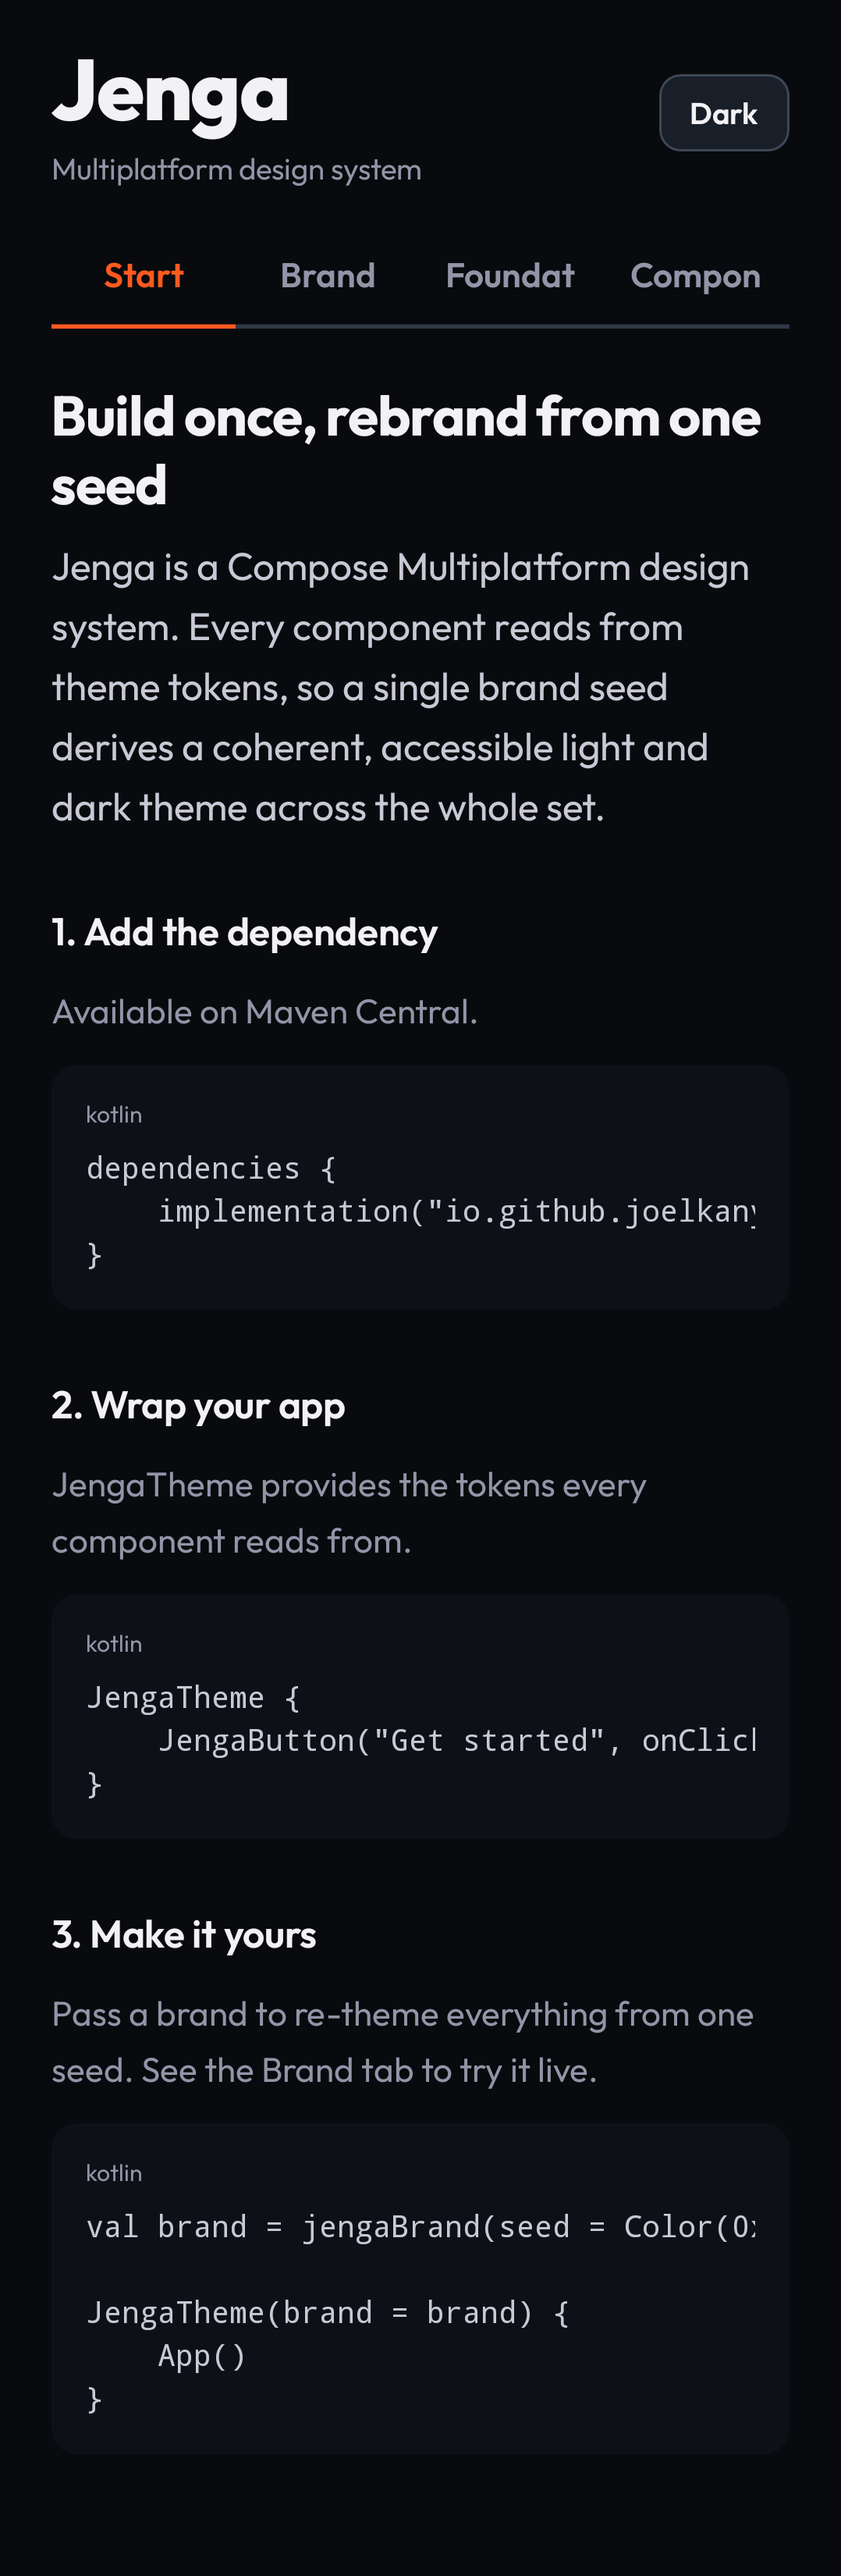
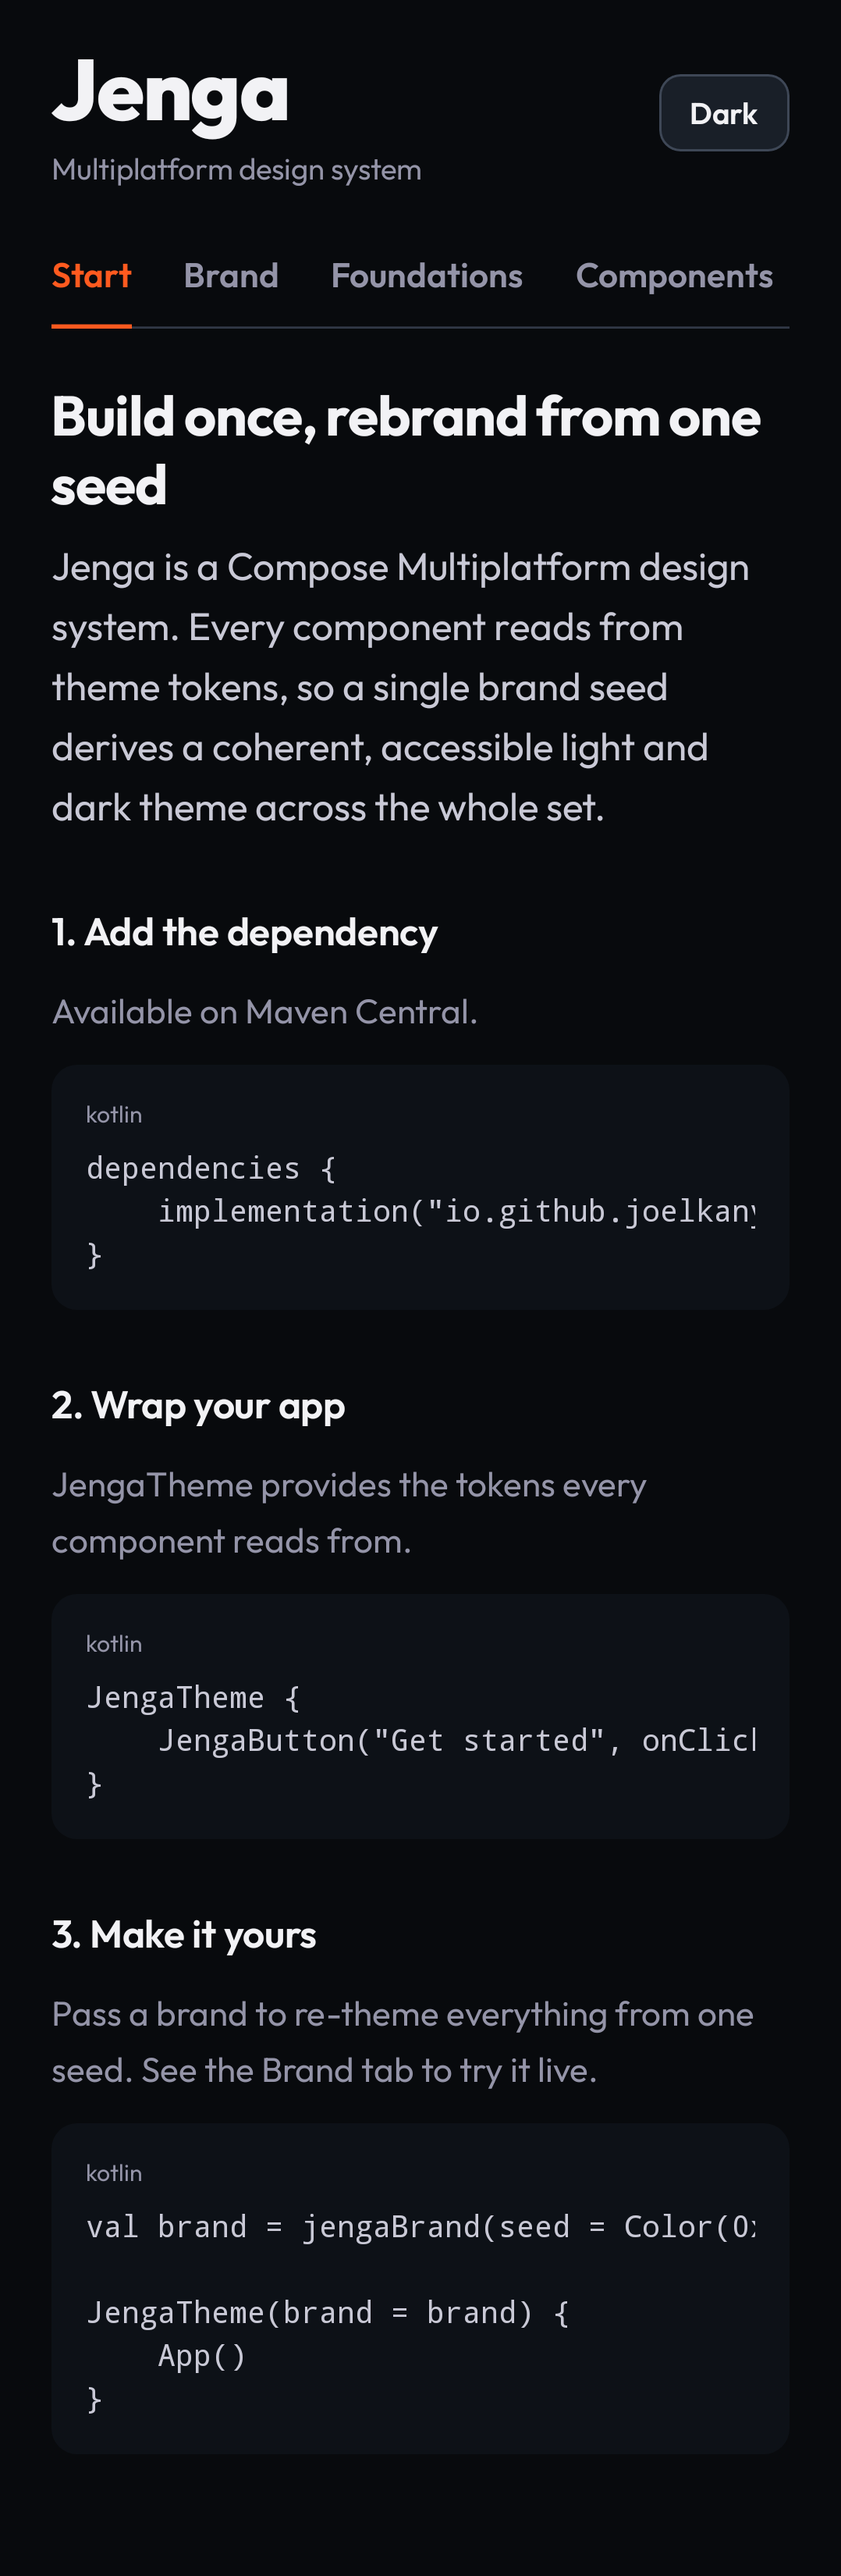
Give ring timeline marker content the ring color; let the catalog tabs scroll

Changed region(s): [[0.0612, 0.0936, 0.9184, 0.1248]]

diff --git a/jenga/src/androidUnitTest/kotlin/io/github/joelkanyi/jenga/component/timeline/JengaTimelineSlotsTest.kt b/jenga/src/androidUnitTest/kotlin/io/github/joelkanyi/jenga/component/timeline/JengaTimelineSlotsTest.kt
@@ -1,9 +1,11 @@
 package io.github.joelkanyi.jenga.component.timeline
 
+import androidx.compose.ui.graphics.Color
 import androidx.compose.ui.test.junit4.createComposeRule
 import androidx.compose.ui.test.onNodeWithText
 import io.github.joelkanyi.jenga.component.text.JengaText
 import io.github.joelkanyi.jenga.theme.JengaTheme
+import io.github.joelkanyi.jenga.theme.LocalJengaContentColor
 import org.junit.Assert.assertEquals
 import org.junit.Rule
 import org.junit.Test
@@ -38,5 +40,26 @@ class JengaTimelineSlotsTest {
         }
         compose.onNodeWithText("1").assertExists()
         compose.onNodeWithText("Visit the customer").assertExists()
+    }
+
+    @Test
+    fun ringMarkerContentTakesTheRingColorAndFilledTakesOnMarker() {
+        var ringContent = Color.Unspecified
+        var filledContent = Color.Unspecified
+        var onMarker = Color.Unspecified
+        compose.setContent {
+            JengaTheme {
+                onMarker = JengaTimelineDefaults.colors().onMarker
+                JengaTimelineMarker(color = Color.Red, style = JengaTimelineMarkerStyle.Ring) {
+                    ringContent = LocalJengaContentColor.current
+                }
+                JengaTimelineMarker(color = Color.Red) {
+                    filledContent = LocalJengaContentColor.current
+                }
+            }
+        }
+        compose.waitForIdle()
+        assertEquals(Color.Red, ringContent)
+        assertEquals(onMarker, filledContent)
     }
 }

diff --git a/jenga/src/commonMain/kotlin/io/github/joelkanyi/jenga/component/timeline/JengaTimelineItem.kt b/jenga/src/commonMain/kotlin/io/github/joelkanyi/jenga/component/timeline/JengaTimelineItem.kt
@@ -297,7 +297,9 @@ public fun JengaTimelineItem(
  * @param style filled or ring; see [JengaTimelineMarkerStyle].
  * @param size the marker diameter.
  * @param ringWidth the outline width of a ring marker.
- * @param contentColor the color provided to [content].
+ * @param contentColor the color provided to [content]; the ring color for a ring
+ *   marker, so its content reads on any background, and the on-marker color for a
+ *   filled one.
  * @param content optional centered content.
  */
 @Composable
@@ -307,7 +309,7 @@ public fun JengaTimelineMarker(
     style: JengaTimelineMarkerStyle = JengaTimelineMarkerStyle.Filled,
     size: Dp = JengaTimelineDefaults.MarkerSize,
     ringWidth: Dp = JengaTimelineDefaults.RingWidth,
-    contentColor: Color = JengaTimelineDefaults.colors().onMarker,
+    contentColor: Color = if (style == JengaTimelineMarkerStyle.Ring) color else JengaTimelineDefaults.colors().onMarker,
     content: (@Composable () -> Unit)? = null,
 ) {
     val shape = JengaTheme.shapes.pill

diff --git a/catalog/src/commonMain/kotlin/io/github/joelkanyi/jenga/catalog/CatalogScreen.kt b/catalog/src/commonMain/kotlin/io/github/joelkanyi/jenga/catalog/CatalogScreen.kt
@@ -23,6 +23,7 @@ import io.github.joelkanyi.jenga.component.button.JengaButtonVariant
 import io.github.joelkanyi.jenga.component.layout.JengaInline
 import io.github.joelkanyi.jenga.component.layout.JengaStack
 import io.github.joelkanyi.jenga.component.tabs.JengaTabs
+import io.github.joelkanyi.jenga.component.tabs.JengaTabsArrangement
 import io.github.joelkanyi.jenga.component.text.JengaText
 import io.github.joelkanyi.jenga.theme.JengaTheme
 
@@ -70,6 +71,7 @@ fun CatalogScreen(
             tabs = surfaces,
             onSelect = { surface = it },
             modifier = Modifier.padding(horizontal = JengaTheme.spacing.xl),
+            arrangement = JengaTabsArrangement.Start,
         )
         Box(modifier = Modifier.weight(1f)) {
             when (surface) {

diff --git a/CHANGELOG.md b/CHANGELOG.md
@@ -10,6 +10,7 @@
  * New: `JengaTimeInput` and `JengaTimePickerDialog` for entering a time with scroll wheels (hour and minute loop) or typed fields, in 12- or 24-hour mode.
  * New: `JengaCaptureFrame`, a capture guide over a camera preview (oval or rectangle at an aspect ratio) with a ready color and hold progress, and `JengaShutterButton`.
  * New: `JengaImageViewer` overload with pages: swipe between images, each zoomed on its own, with a bottom bar that can move to any page.
+ * Fix: a ring `JengaTimelineMarker` now gives its content the ring color by default, so a number inside it reads on light backgrounds.
  * Fix: `JengaBottomSheet` no longer calls `onDismissRequest` on Back when the sheet did not close.
 
 ## Version 0.8.3
